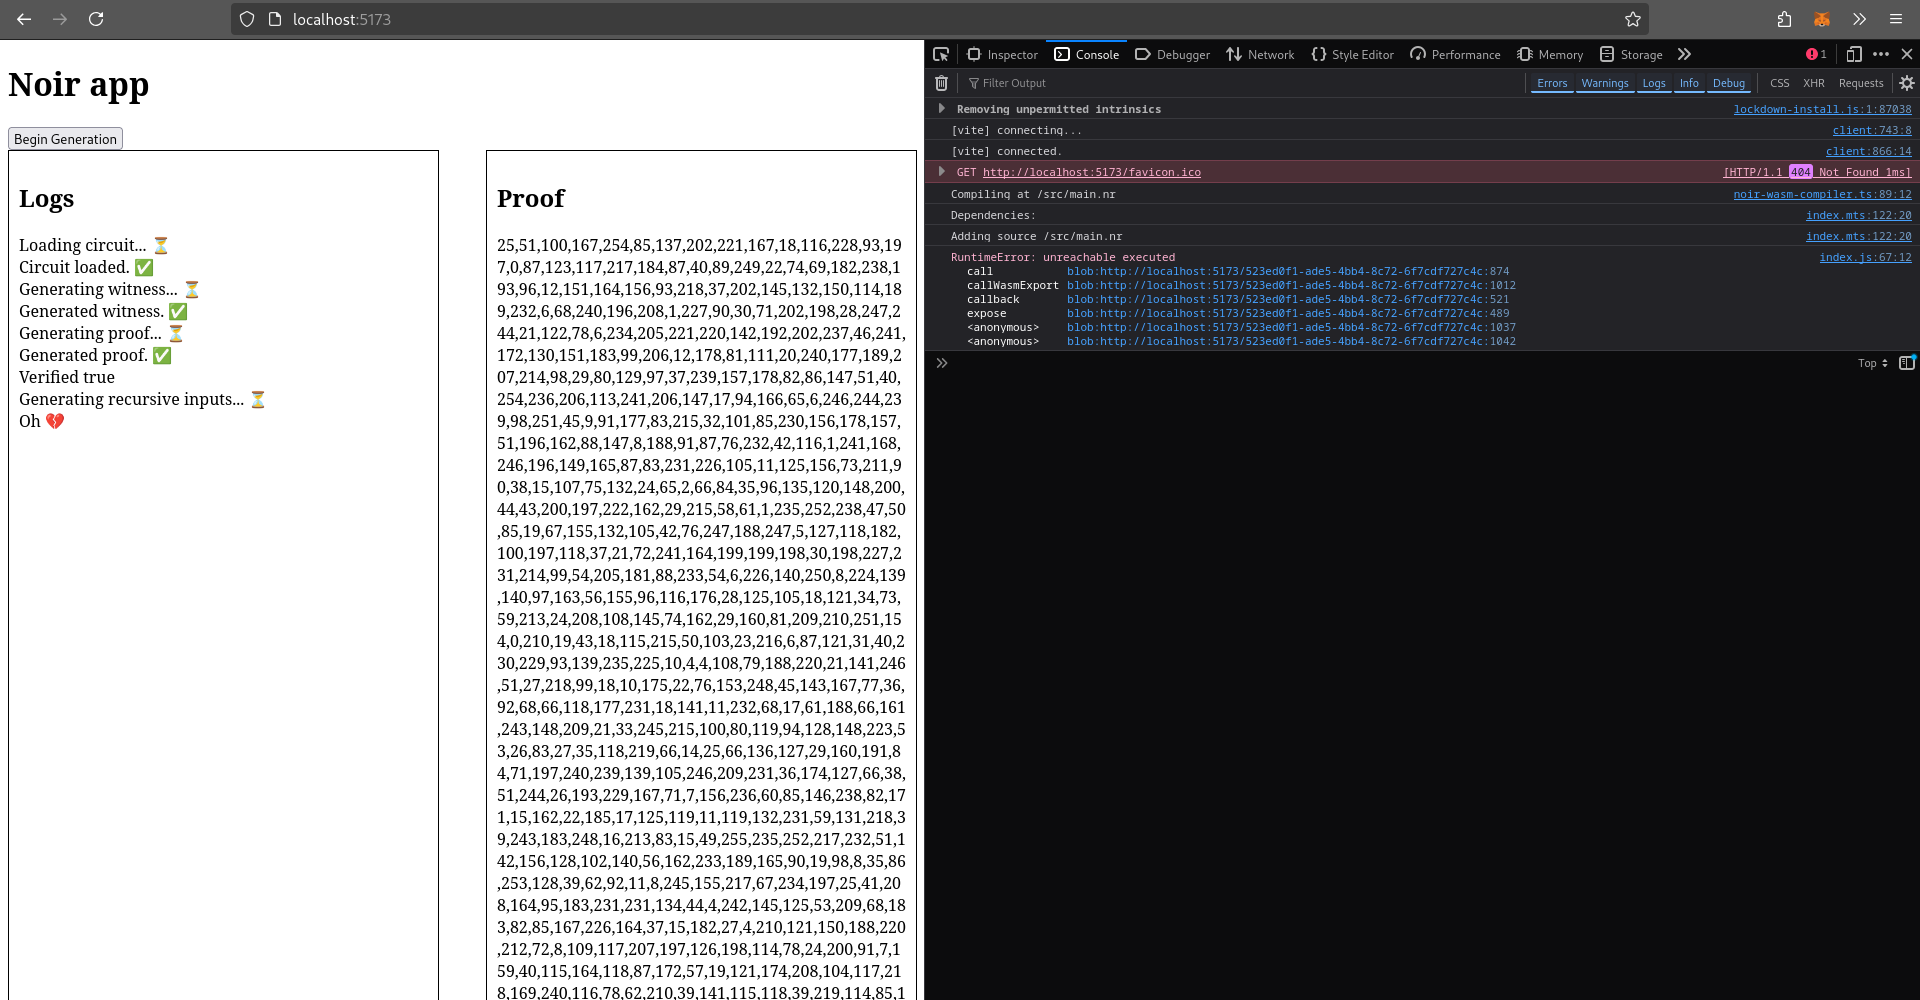
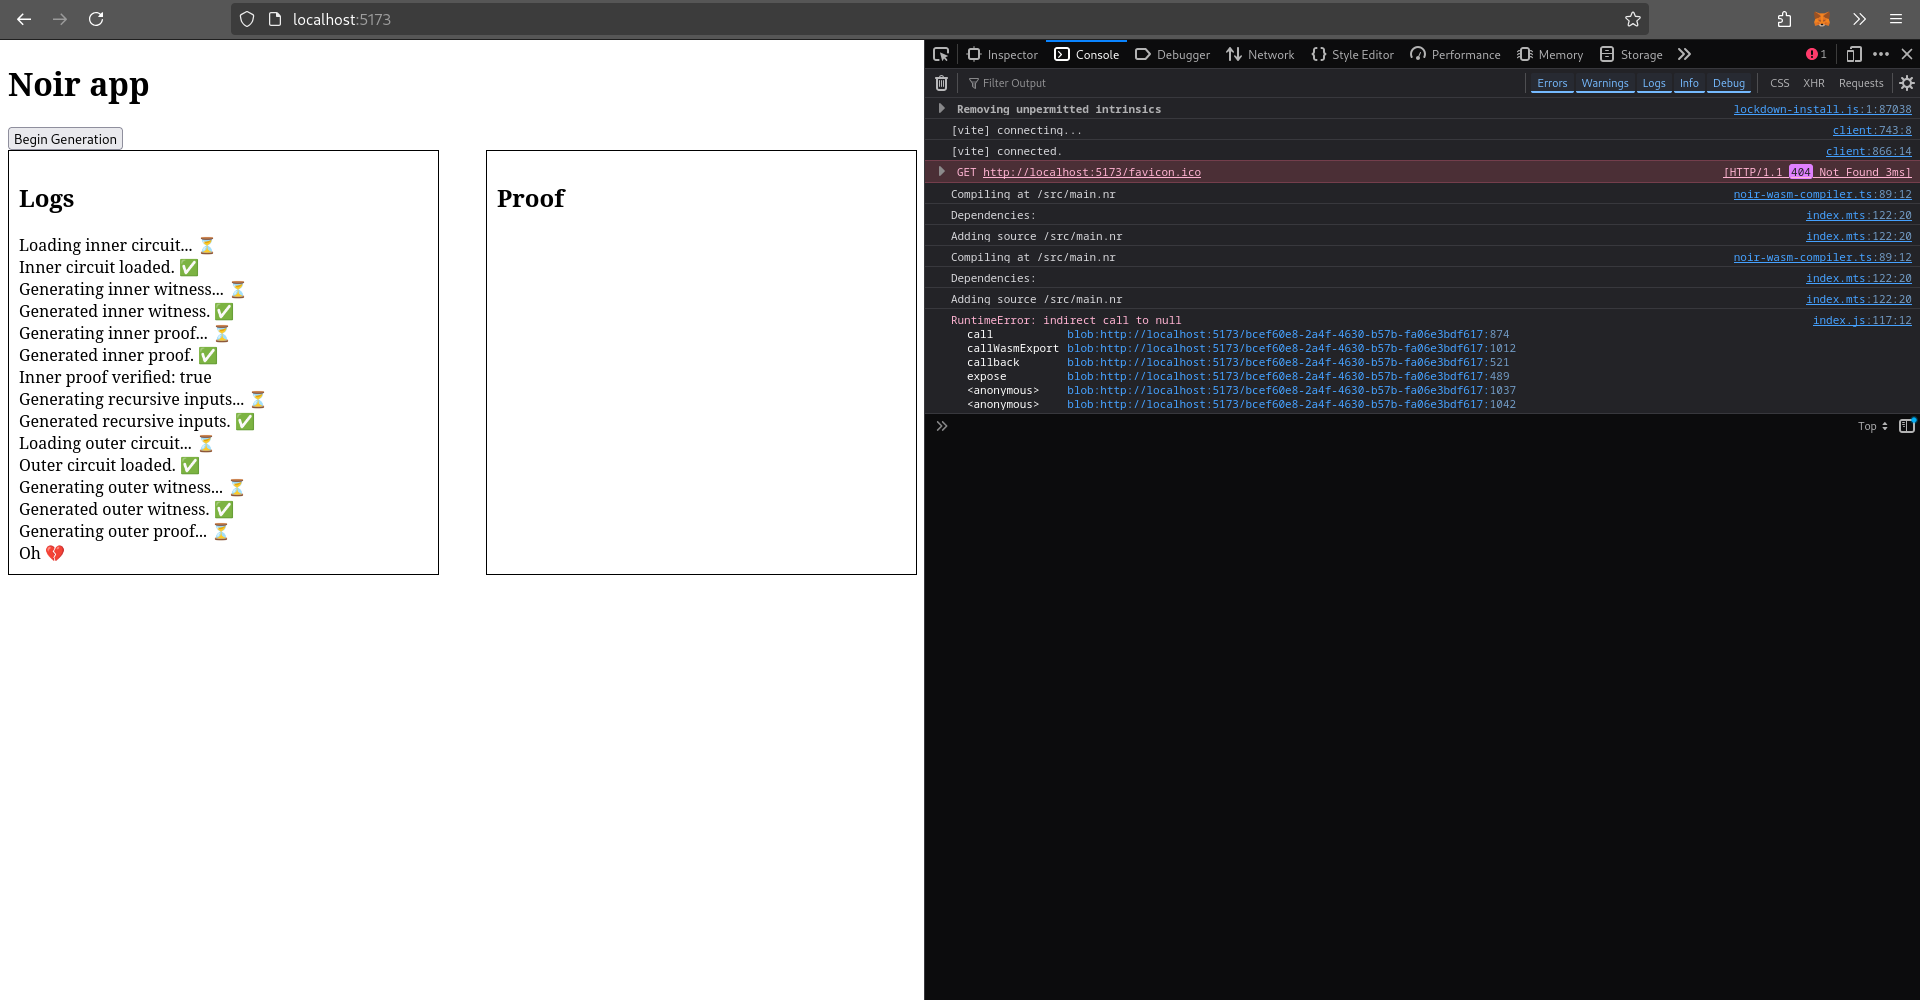
Outer witness generates but not the proof

Changed region(s): [[0.25, 0.217, 1.0, 1.0], [0.0, 0.217, 0.1562, 0.558]]

diff --git a/src/index.js b/src/index.js
@@ -1,5 +1,5 @@
 import { compile, createFileManager } from "@noir-lang/noir_wasm"
-import { UltraPlonkBackend } from '@aztec/bb.js';
+import { UltraHonkBackend } from '@aztec/bb.js';
 import { Noir } from '@noir-lang/noir_js';
 
 import initNoirC from "@noir-lang/noirc_abi";
@@ -7,19 +7,35 @@ import initACVM from "@noir-lang/acvm_js";
 import acvm from "@noir-lang/acvm_js/web/acvm_js_bg.wasm?url";
 import noirc from "@noir-lang/noirc_abi/web/noirc_abi_wasm_bg.wasm?url";
 
-import main from "./inner/src/main.nr?url";
-import nargoToml from "./inner/Nargo.toml?url";
+import innerMain from "./inner/src/main.nr?url";
+import innerNargoToml from "./inner/Nargo.toml?url";
+import outerMain from "./outer/src/main.nr?url";
+import outerNargoToml from "./outer/Nargo.toml?url";
 
 await Promise.all([initACVM(fetch(acvm)), initNoirC(fetch(noirc))]);
 
-export async function getCircuit() {
+async function getInnerCircuit() {
   const fm = createFileManager("/");
-  const { body } = await fetch(main);
-  const { body: nargoTomlBody } = await fetch(nargoToml);
+  const { body } = await fetch(innerMain);
+  const { body: nargoTomlBody } = await fetch(innerNargoToml);
 
   fm.writeFile("./src/main.nr", body);
   fm.writeFile("./Nargo.toml", nargoTomlBody);
   return await compile(fm);
+}
+
+async function getOuterCircuit() {
+  const fm = createFileManager("/");
+  const { body } = await fetch(outerMain);
+  const { body: nargoTomlBody } = await fetch(outerNargoToml);
+
+  fm.writeFile("./src/main.nr", body);
+  fm.writeFile("./Nargo.toml", nargoTomlBody);
+  return await compile(fm);
+}
+
+function foreignCallHandler() {
+  throw new Error('Unexpected foreign call');
 }
 
 const show = (id, content) => {
@@ -31,37 +47,71 @@ const show = (id, content) => {
 document.getElementById("submit").addEventListener("click", async () => {
   try {
     // noir goes here
-    show("logs", "Loading circuit... ⏳");
-    const { program } = await getCircuit();
-    const noir = new Noir(program);
-    const backend = new UltraPlonkBackend(program.bytecode, { threads: 8 }, { recursive: true });
-    show("logs", "Circuit loaded. ✅");
+    show("logs", "Loading inner circuit... ⏳");
+    const { program: innerProgram } = await getInnerCircuit();
+    const innerNoir = new Noir(innerProgram);
+    const innerBackend = new UltraHonkBackend(innerProgram.bytecode, { threads: 8 }, { recursive: true });
+    show("logs", "Inner circuit loaded. ✅");
 
-    show("logs", "Generating witness... ⏳");
-    const { witness } = await noir.execute({ x: 1 , y: 2 });
-    show("logs", "Generated witness. ✅");
+    show("logs", "Generating inner witness... ⏳");
+    const { witness: innerWitness } = await innerNoir.execute({ x: 1 , y: 2 });
+    show("logs", "Generated inner witness. ✅");
 
-    show("logs", "Generating proof... ⏳");
-    const { proof, publicInputs } = await backend.generateProof(witness);
-    show("logs", "Generated proof. ✅");
-    show("results", proof);
+    show("logs", "Generating inner proof... ⏳");
+    const {
+      proof: innerProof,
+      publicInputs: innerPublicInputs
+    } = await innerBackend.generateProof(innerWitness);
+    show("logs", "Generated inner proof. ✅");
 
-    const verified = await backend.verifyProof({ proof, publicInputs });
-    show("logs", `Verified ${verified}`);
+    // Not strictly necessary to do this here but for illustration
+    const innerVerified = await innerBackend.verifyProof({
+      publicInputs: innerPublicInputs,
+      proof: innerProof,
+    });
+    show("logs", `Inner proof verified: ${innerVerified}`);
 
     show("logs", "Generating recursive inputs... ⏳");
-    const publicInputsCount = 17;
-    const { proofAsFields, vkAsFields, vkHash } = await backend.generateRecursiveProofArtifacts( { publicInputs, proof }, publicInputsCount);
+    const recursiveProof = await innerBackend.generateProofForRecursiveAggregation(innerWitness);
+
+    const recursiveArtifacts = await innerBackend.generateRecursiveProofArtifacts(
+      {
+        publicInputs: innerPublicInputs,
+        proof: innerProof,
+      },
+      innerPublicInputs.length,
+    );
     show("logs", "Generated recursive inputs. ✅");
 
-    const recursiveInputs = {
-        verification_key: vkAsFields, // array of length 114
-        proof: proofAsFields, // array of length 93 + size of public inputs
-        publicInputs: [2], // using the example above, where `y` is the only public input
-        key_hash: vkHash,
+    show("logs", "Loading outer circuit... ⏳");
+    const { program: outerProgram } = await getOuterCircuit();
+    const outerNoir = new Noir(outerProgram);
+    const outerBackend = new UltraHonkBackend(outerProgram.bytecode, { threads: 8 }, { recursive: true });
+    show("logs", "Outer circuit loaded. ✅");
+
+    show("logs", "Generating outer witness... ⏳");
+    const outerInputs = {
+      public_inputs: recursiveProof.publicInputs,
+      key_hash: '0x0',
+      proof: recursiveProof.proof,
+      verification_key: recursiveArtifacts.vkAsFields,
+      z: '0xd00d',
     };
 
-    console.log(recursiveInputs);
+    const { witness: outerWitness } = await outerNoir.execute(
+      outerInputs,
+      foreignCallHandler,
+    );
+    show("logs", "Generated outer witness. ✅");
+
+    show("logs", "Generating outer proof... ⏳");
+    const {
+      proof: outerProof,
+      publicInputs: outerPublicInputs
+    } = await outerBackend.generateProof(outerWitness);
+    show("logs", "Generated outer proof. ✅");
+    show("results", outerProof);
+    console.log(outerProof, outerPublicInputs);
 
   } catch(error) {
     console.log(error);

diff --git a/README.md b/README.md
@@ -2,4 +2,4 @@
 
 ![error screenshot](docs/screenshot.png)
 
-Following [the recursion guide](https://noir-lang.org/docs/how_to/how-to-recursion) but it has some cryptic error...
+Following [the recursion guide](https://noir-lang.org/docs/how_to/how-to-recursion) and [noir-bb-bench](https://github.com/AztecProtocol/aztec-packages/tree/master/yarn-project/noir-bb-bench) but it has some cryptic error...
